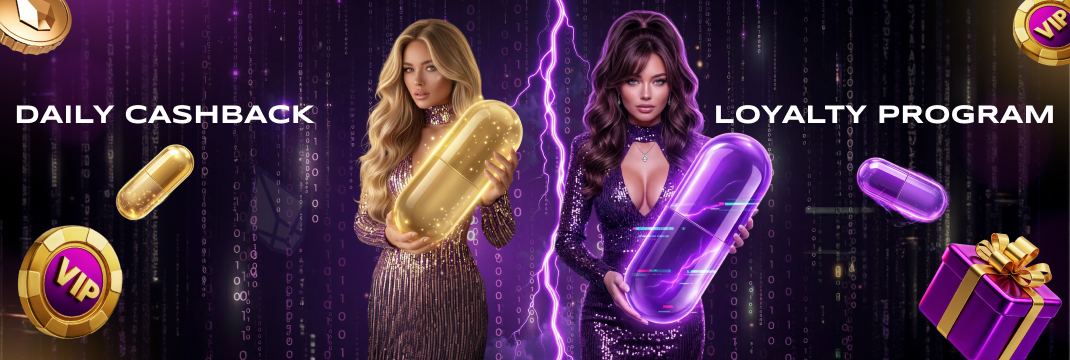
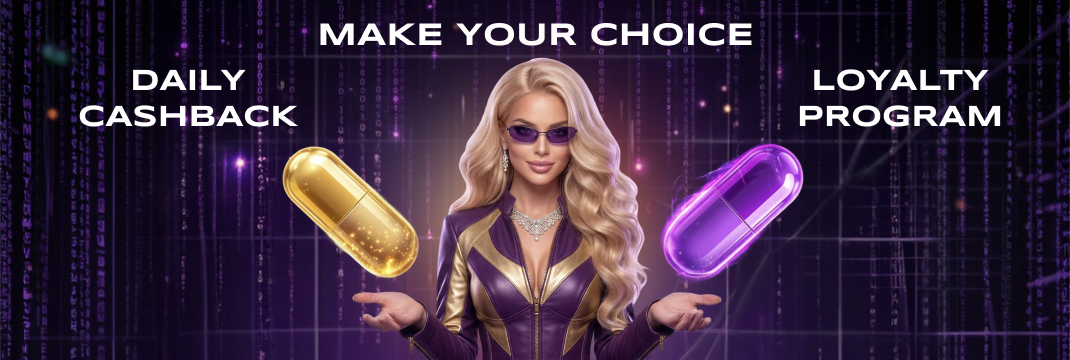
update left/right

diff --git a/index.html b/index.html
@@ -63,8 +63,7 @@
             overflow: hidden;
         }
 
-        #html-content-type-area .dc-banner img,
-        #html-content-type-area .dc-gif img {
+        #html-content-type-area .dc-banner img {
             width: 100%;
             display: block;
         }
@@ -168,27 +167,91 @@
             color: #00fff3;
         }
 
-        #html-content-type-area .dc-gif {
-            position: relative;
-            border-radius: var(--radius);
-            overflow: hidden;
-        }
-
-        #html-content-type-area .dc-gif-actions {
-            position: absolute;
-            inset: 0;
+        #html-content-type-area .dc-choice {
             display: grid;
             grid-template-columns: 1fr 1fr;
+            gap: 16px;
+            max-width: 780px;
+            margin: 0 auto;
+        }
+
+        #html-content-type-area .dc-choice-card {
+            display: block;
+            position: relative;
+            border-radius: 12px;
+            overflow: visible;
+            border: 0;
+            cursor: pointer;
+            transition: box-shadow 0.2s ease, transform 0.2s ease;
+            line-height: 0;
+            padding: 0;
+            vertical-align: top;
+            -webkit-tap-highlight-color: transparent;
+            user-select: none;
+        }
+
+        #html-content-type-area .dc-choice-card::before {
+            content: "";
+            position: absolute;
+            inset: 0;
+            border-radius: 12px;
+            box-shadow: inset 0 0 0 1.5px transparent;
+            pointer-events: none;
+            z-index: 1;
+        }
+
+        #html-content-type-area .dc-choice-card img {
+            width: 100%;
+            display: block;
+            border-radius: 12px;
+            border: 0;
+        }
+
+        #html-content-type-area .dc-choice-btn {
+            position: absolute;
+            left: 50%;
+            bottom: -20px;
+            transform: translateX(-50%);
+            min-width: 180px;
+            height: 40px;
+            padding: 0 24px;
+            border-radius: 999px;
+            background: linear-gradient(116.06deg, #8609E5 6.54%, #8F71FA 43.91%, #863AD6 60.26%, #5236B7 76.32%);
+            color: #ffffff;
+            font-size: 16px;
+            line-height: 1.1;
+            font-weight: 600;
+            display: inline-flex;
+            align-items: center;
+            justify-content: center;
+            box-shadow: 0 1px 2px 0 rgba(16, 24, 40, 0.05);
+            pointer-events: auto;
             z-index: 2;
         }
 
-        #html-content-type-area .dc-gif-link {
-            display: block;
-            width: 100%;
-            height: 100%;
-            text-indent: -9999px;
-            overflow: hidden;
-            cursor: pointer;
+        #html-content-type-area #bonus-left:checked~.dc-wrap .dc-choice-card[for="bonus-left"],
+        #html-content-type-area #bonus-right:checked~.dc-wrap .dc-choice-card[for="bonus-right"] {
+            box-shadow: none;
+        }
+
+        #html-content-type-area #bonus-left:checked~.dc-wrap .dc-choice-card[for="bonus-left"] img,
+        #html-content-type-area #bonus-right:checked~.dc-wrap .dc-choice-card[for="bonus-right"] img {
+            border: 0;
+        }
+
+        #html-content-type-area #bonus-left:checked~.dc-wrap .dc-choice-card[for="bonus-left"],
+        #html-content-type-area #bonus-right:checked~.dc-wrap .dc-choice-card[for="bonus-right"] {
+            border-color: transparent;
+        }
+
+        #html-content-type-area #bonus-left:checked~.dc-wrap .dc-choice-card[for="bonus-left"]::before,
+        #html-content-type-area #bonus-right:checked~.dc-wrap .dc-choice-card[for="bonus-right"]::before {
+            inset: 0;
+            box-shadow: inset 0 0 0 1.5px #39dfd4;
+        }
+
+        #html-content-type-area #bonus-right:checked~.dc-wrap .dc-choice-card[for="bonus-right"]::before {
+            inset: 0 0 0 3px;
         }
 
         #html-content-type-area .dc-bonus {
@@ -539,13 +602,13 @@
         @media (max-width: 980px) {
             #html-content-type-area {
                 --gap: 40px;
-                padding: 16px 10px 30px;
+                padding: 14px 10px 24px;
             }
 
             #html-content-type-area .dc-text-matrix {
-                padding: 20px 42px;
-                min-height: 102px;
-                gap: 7px;
+                padding: 18px 16px 14px;
+                min-height: 0;
+                gap: 8px;
             }
 
             #html-content-type-area .dc-text-matrix::before,
@@ -761,6 +824,32 @@
                 margin-top: 0;
             }
 
+            #html-content-type-area .dc-choice {
+                grid-template-columns: 1fr 1fr;
+                gap: 10px;
+                max-width: none;
+            }
+
+            #html-content-type-area .dc-choice-btn {
+                bottom: -15px;
+                min-width: 112px;
+                height: 28px;
+                padding: 0 12px;
+                font-size: 11px;
+            }
+
+            #html-content-type-area .dc-choice-card {
+                border-radius: 12px;
+            }
+
+            #html-content-type-area .dc-choice-card img {
+                border-radius: 12px;
+            }
+
+            #html-content-type-area #bonus-right:checked~.dc-wrap .dc-choice-card[for="bonus-right"]::before {
+                inset: 0;
+            }
+
             #html-content-type-area .dc-bonus-present {
                 display: block;
                 position: absolute;
@@ -775,9 +864,9 @@
 
             #html-content-type-area .dc-cta {
                 min-height: 0;
-                padding: 16px 16px 14px;
+                padding: 14px 14px 12px;
                 display: block;
-                border-radius: 12px;
+                border-radius: 10px;
             }
 
             #html-content-type-area .dc-cta::before {
@@ -883,15 +972,15 @@
                         class="accent">16:00</span>.</p>
             </section>
 
-            <section class="dc-block dc-gif" aria-label="Choose bonus type">
-                <picture>
-                    <source srcset="img/banner_second_mb.gif" media="(max-width: 980px)">
-                    <img src="img/banner_second.gif" alt="Choose left or right bonus path">
-                </picture>
-                <div class="dc-gif-actions">
-                    <label class="dc-gif-link" for="bonus-left" aria-label="Show first bonus option">Left option</label>
-                    <label class="dc-gif-link" for="bonus-right" aria-label="Show second bonus option">Right option</label>
-                </div>
+            <section class="dc-choice" aria-label="Choose bonus type">
+                <label class="dc-choice-card" for="bonus-left" aria-label="Show Daily Cashback option">
+                    <img src="img/left.png" alt="Daily Cashback option">
+                    <span class="dc-choice-btn">View Details</span>
+                </label>
+                <label class="dc-choice-card" for="bonus-right" aria-label="Show Loyalty Program option">
+                    <img src="img/right.png" alt="Loyalty Program option">
+                    <span class="dc-choice-btn">View Details</span>
+                </label>
             </section>
 
             <section class="dc-block dc-bonus dc-bonus-left" aria-label="Bonus conditions">
